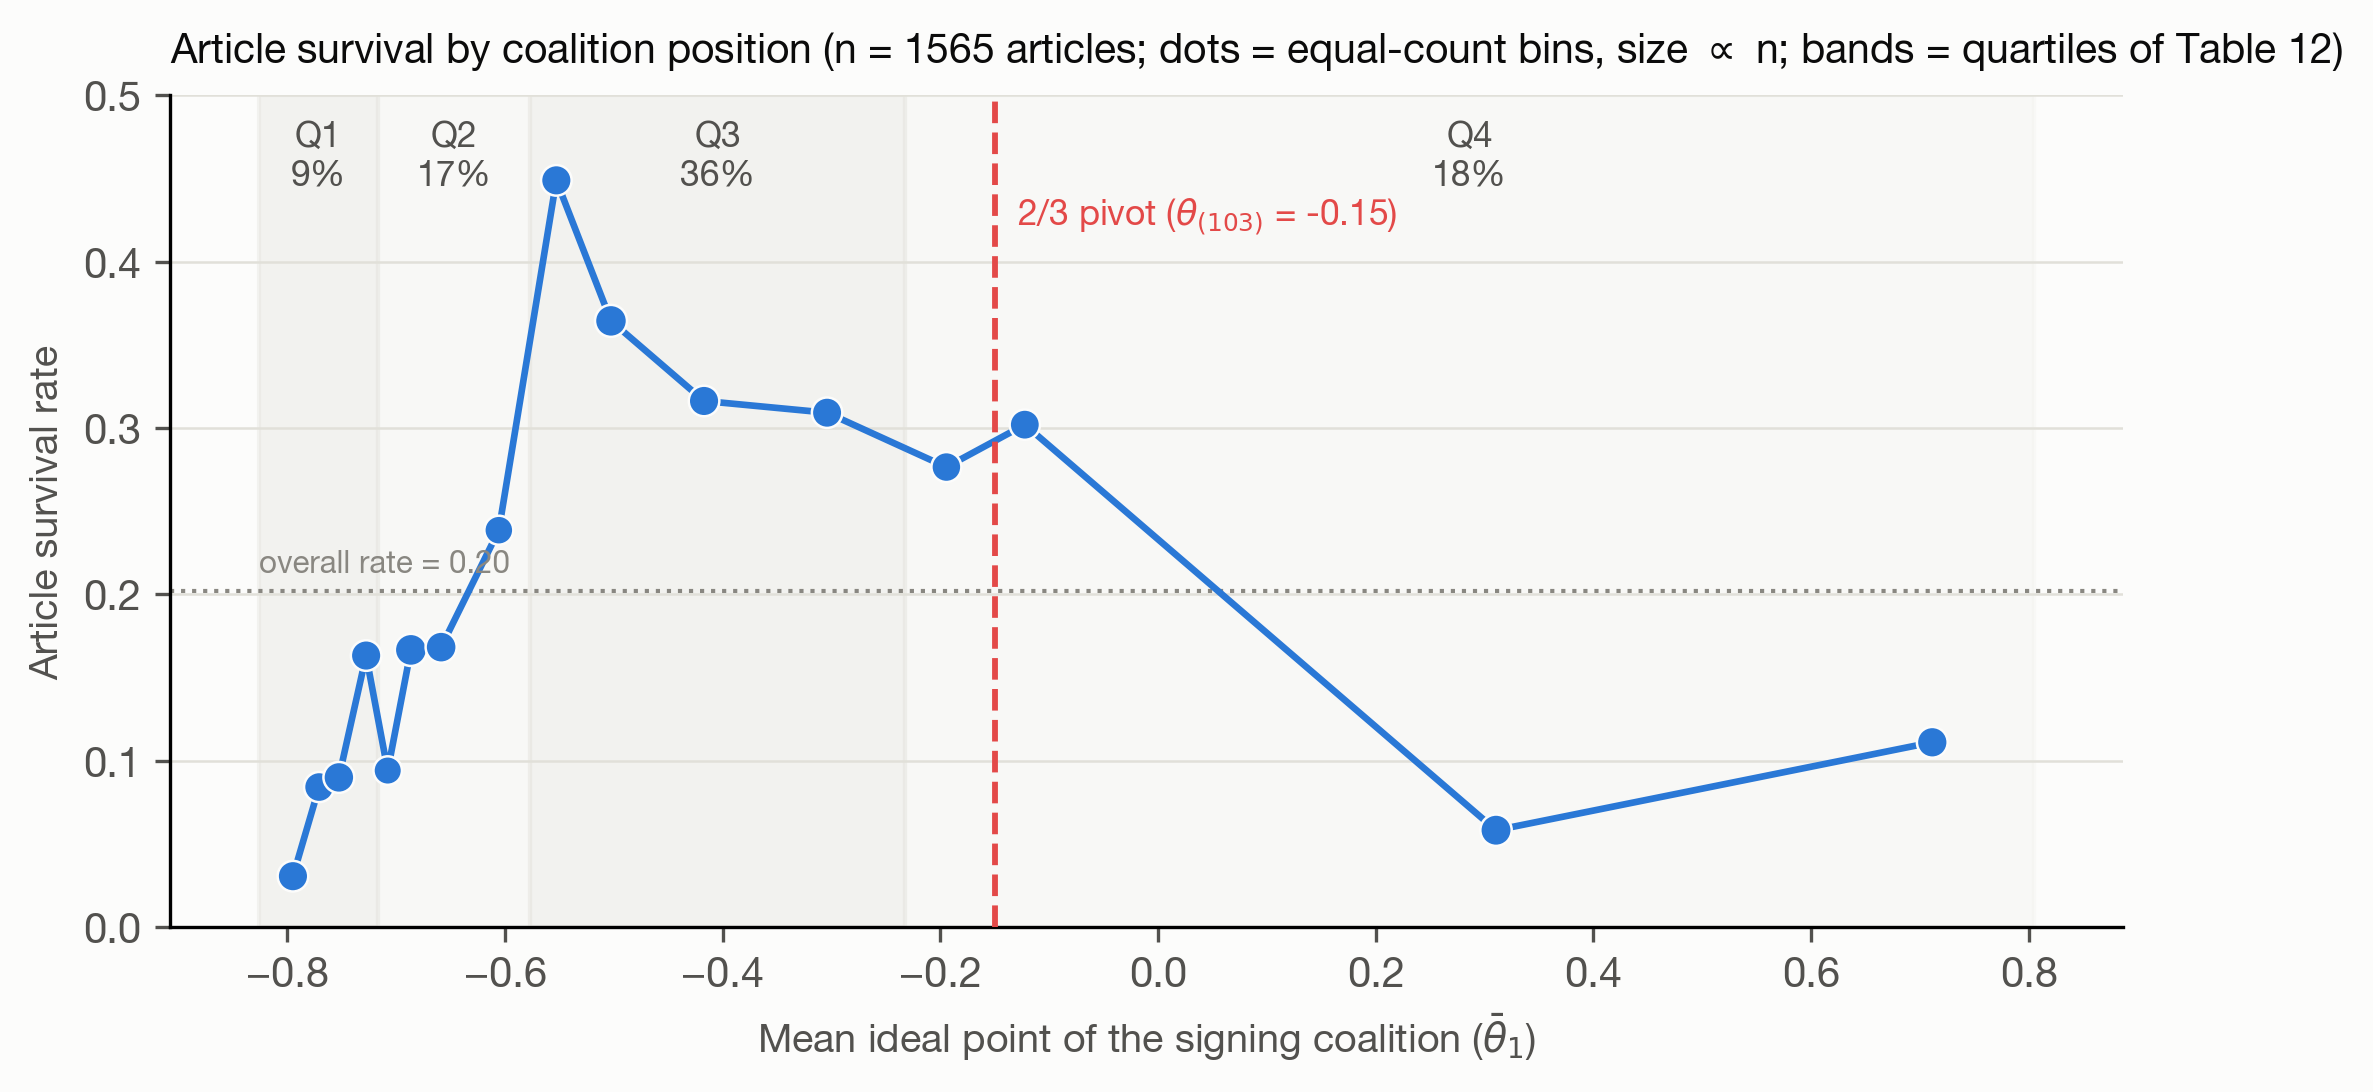
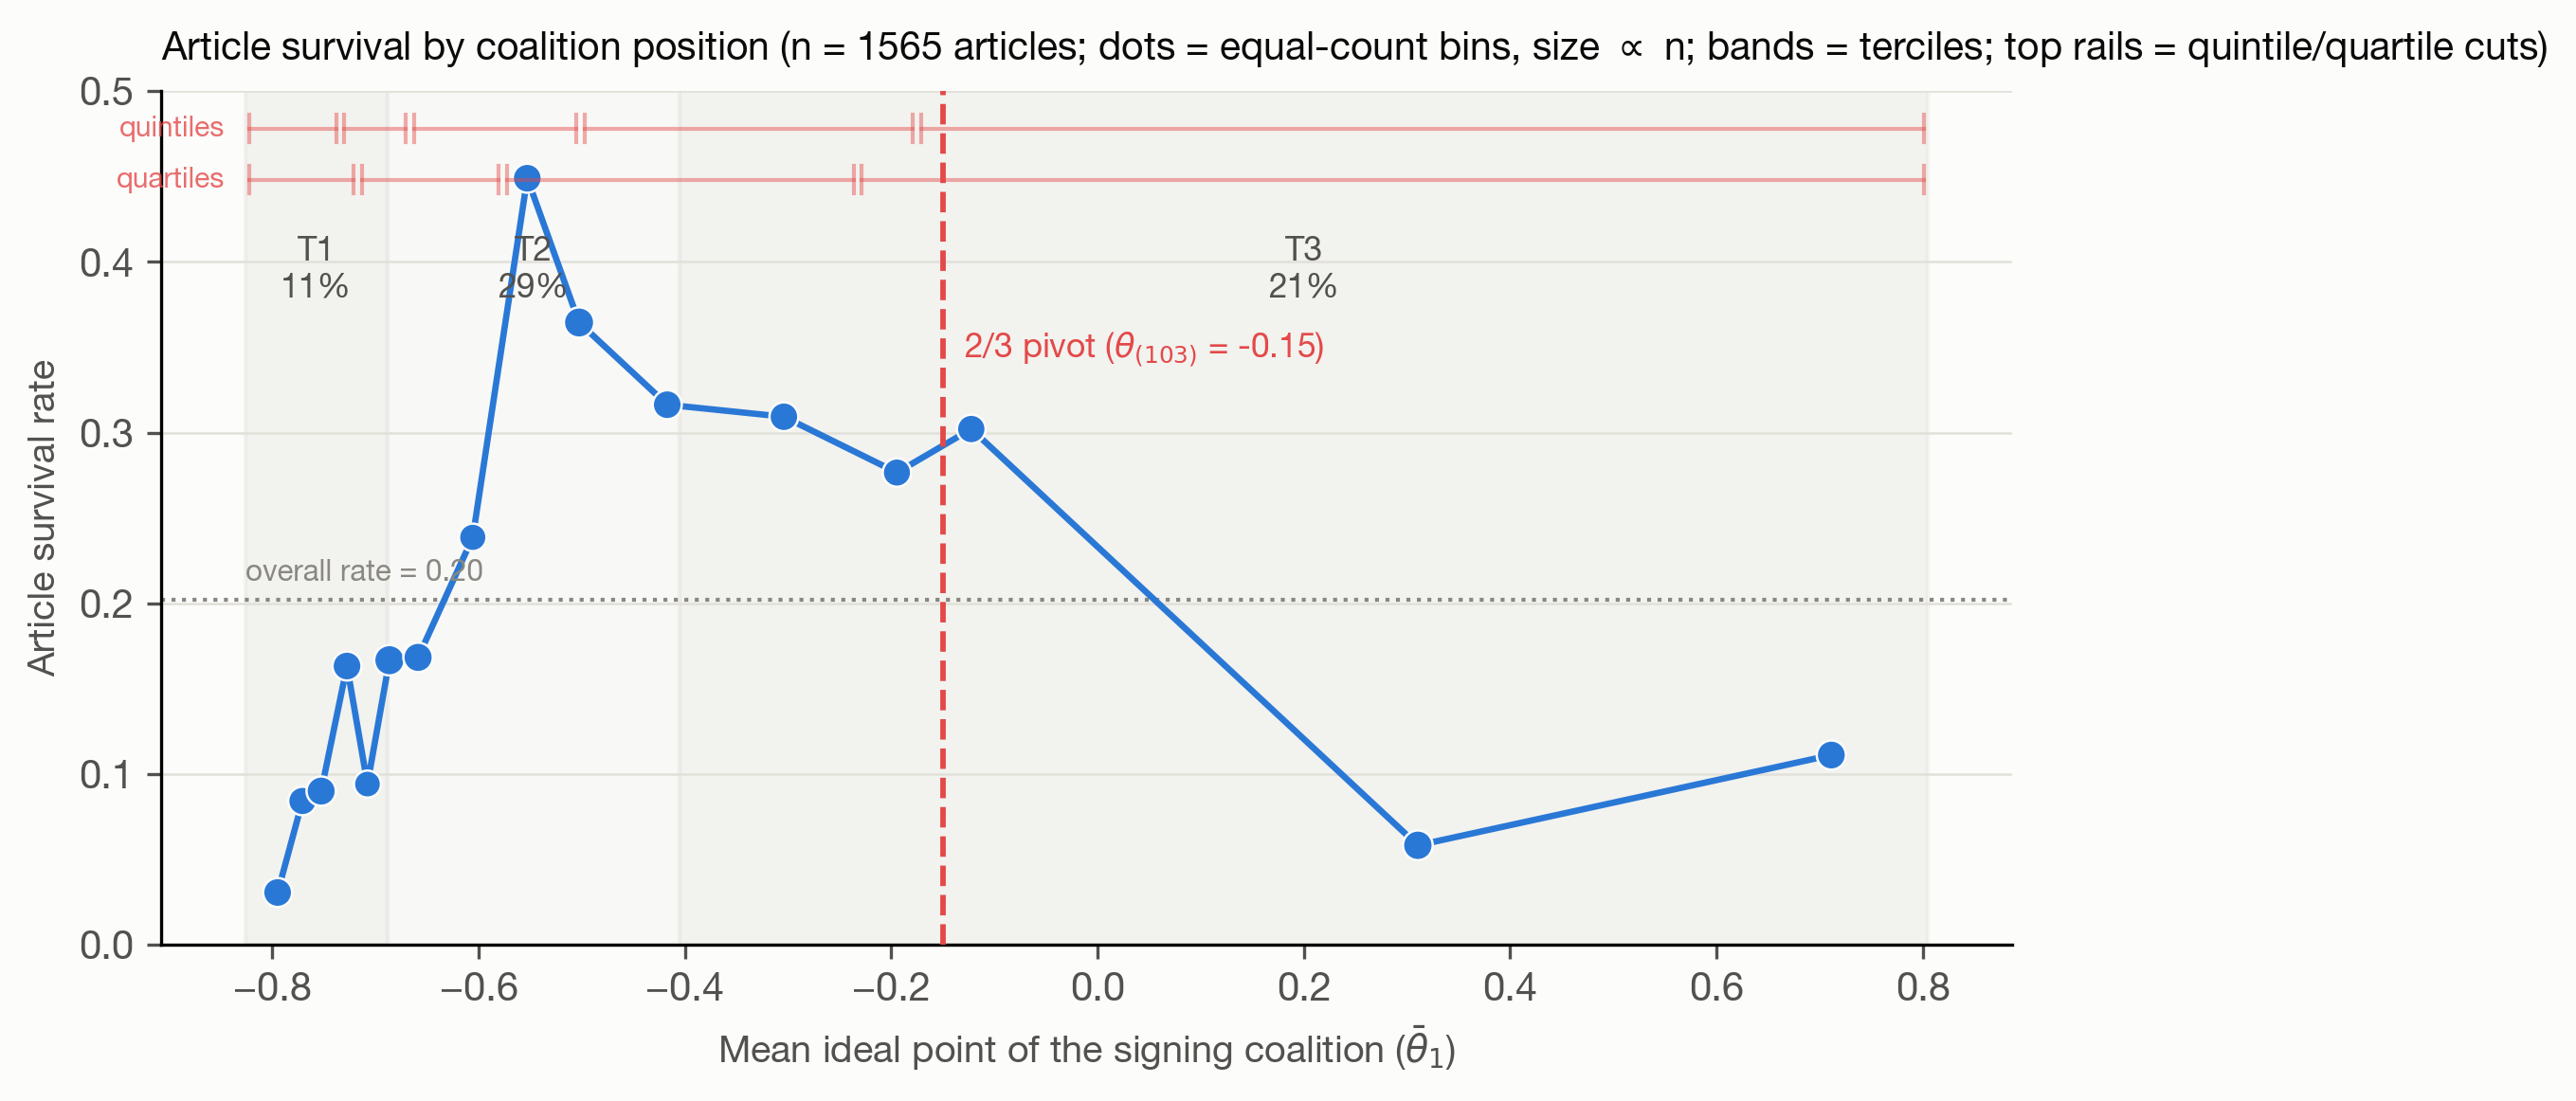
feat: ronda 0-7 — SDM impactos exactos (Tabla 14) + contrafactuales, Figura 13 éxito-por-posición, F12 terciles+barandillas, F11 alpha, nota Fábrega 2022 verificada, limitaciones reescritas

diff --git a/code/47-success-by-ideology-figure.py b/code/47-success-by-ideology-figure.py
@@ -1,0 +1,86 @@
+"""
+47-success-by-ideology-figure.py  (comentario del autor 2026-07-21, punto 2)
+Distribución del éxito (retención léxica media) de cada convencional, ordenada
+por su posición política del primer mes (theta1 W-NOMINATE), coloreada por
+conglomerado. Acompaña la sección 5.2 del reporte.
+
+Output: results/figures/success_by_ideology.{pdf,png}
+"""
+
+import csv
+import os
+import sys
+
+import matplotlib
+matplotlib.use("Agg")
+import matplotlib.pyplot as plt
+import numpy as np
+
+sys.path.insert(0, os.path.dirname(os.path.abspath(__file__)))
+from paths import DATA_PROCESSED, DATA_RAW, RESULTS_FIGURES  # noqa: E402
+
+INK, INK2, MUTED = "#0b0b0b", "#52514e", "#898781"
+GRID, BASE, SURF = "#e1e0d9", "#c3c2b7", "#fcfcfb"
+plt.rcParams.update({"font.family": "sans-serif",
+                     "font.sans-serif": ["Helvetica Neue", "Helvetica", "Arial", "DejaVu Sans"],
+                     "figure.facecolor": SURF, "axes.facecolor": SURF, "savefig.facecolor": SURF,
+                     "text.color": INK, "axes.labelcolor": INK2,
+                     "xtick.color": INK2, "ytick.color": INK2})
+
+CONG_COLOR = {
+    "Vamos por Chile": "#2a78d6",
+    "Lista del Apruebo": "#1baf7a",
+    "Apruebo Dignidad": "#e34948",
+    "Lista del Pueblo": "#a8323e",
+    "Escaños Reservados PPOO": "#4a3aa7",
+    "Independientes No Neutrales": "#eda100",
+    "Otras listas locales": "#898781",
+}
+
+theta = {r["nombre_armonizado"]: float(r["theta1_fm"])
+         for r in csv.DictReader(open(os.path.join(DATA_PROCESSED, "ideal_points_2d_firstmonth.csv"),
+                                      encoding="utf-8"))}
+PIVOT = sorted(theta.values())[102]
+cong = {}
+for r in csv.DictReader(open(os.path.join(DATA_RAW, "electoral_lists.csv"), encoding="utf-8")):
+    c = r["conglomerado"]
+    if c == "REVISAR (lista local sin conglomerado)":
+        c = "Otras listas locales"
+    cong[r["nombre_armonizado"]] = c
+
+pts = []
+for r in csv.DictReader(open(os.path.join(DATA_PROCESSED, "integrated_dataset.csv"), encoding="utf-8")):
+    if r["retention_all"] and r["nombre_armonizado"] in theta:
+        pts.append((theta[r["nombre_armonizado"]], float(r["retention_all"]),
+                    cong.get(r["nombre_armonizado"], "Otras listas locales")))
+
+fig, ax = plt.subplots(figsize=(8.4, 3.7))
+for c, col in CONG_COLOR.items():
+    xs = [p[0] for p in pts if p[2] == c]
+    ys = [p[1] for p in pts if p[2] == c]
+    ax.scatter(xs, ys, s=26, color=col, alpha=0.8, edgecolors=SURF, linewidths=0.5,
+               label=c, zorder=3)
+# tendencia: media movil sobre bins de igual tamaño
+pts.sort()
+xv = np.array([p[0] for p in pts]); yv = np.array([p[1] for p in pts])
+NB = 12
+qs = np.quantile(xv, np.linspace(0, 1, NB + 1))
+cx = [xv[(xv >= qs[b]) & (xv <= qs[b + 1])].mean() for b in range(NB)]
+cy = [yv[(xv >= qs[b]) & (xv <= qs[b + 1])].mean() for b in range(NB)]
+ax.plot(cx, cy, "-", color=INK, lw=1.4, alpha=0.65, zorder=4)
+ax.axvline(PIVOT, color="#e34948", lw=1.3, ls="--", zorder=2)
+ax.text(PIVOT + 0.06, 0.03, f"2/3 pivot ({PIVOT:.2f})", fontsize=8, color="#e34948")
+ax.set_xlabel("First-month ideal point ($\\theta_1$, W-NOMINATE)", fontsize=9.5)
+ax.set_ylabel("Success $y_i$ (mean lexical retention)", fontsize=9.5)
+ax.grid(color=GRID, lw=0.5)
+for side in ("top", "right"):
+    ax.spines[side].set_visible(False)
+ax.legend(fontsize=6.8, frameon=False, ncol=2, loc="upper right", handletextpad=0.2,
+          columnspacing=0.8)
+ax.set_title(f"Individual success by first-month position (n = {len(pts)} delegates; "
+             "line = equal-count bin means)", fontsize=9.8, color=INK, loc="left", pad=8)
+os.makedirs(RESULTS_FIGURES, exist_ok=True)
+for ext in ("pdf", "png"):
+    fig.savefig(os.path.join(RESULTS_FIGURES, f"success_by_ideology.{ext}"), dpi=300,
+                bbox_inches="tight")
+print("figura: success_by_ideology.pdf/.png")

diff --git a/code/46-survival-by-position-figure.py b/code/46-survival-by-position-figure.py
@@ -53,20 +53,33 @@ for b in range(NB):
     rates.append(sv[m].mean())
     sizes.append(m.sum())
 
-q = np.quantile(mt, [0, .25, .5, .75, 1])
-fig, ax = plt.subplots(figsize=(8.4, 3.6))
-# bandas de cuartil con su tasa
-for i, lab in enumerate(["Q1", "Q2", "Q3", "Q4"]):
-    m = (mt >= q[i]) & (mt <= q[i + 1])
-    ax.axvspan(q[i], q[i + 1], color=GRID, alpha=0.35 if i % 2 == 0 else 0.12, zorder=0)
-    ax.text((max(q[i], -0.9) + min(q[i + 1], 0.85)) / 2, 0.485,
+fig, ax = plt.subplots(figsize=(8.4, 3.9))
+# bandas de TERCIL (calzan con la lógica del pívot de 2/3; punto 6, 2026-07-21)
+t = np.quantile(mt, [0, 1/3, 2/3, 1])
+for i, lab in enumerate(["T1", "T2", "T3"]):
+    m = (mt >= t[i]) & (mt <= t[i + 1])
+    ax.axvspan(t[i], t[i + 1], color=GRID, alpha=0.35 if i % 2 == 0 else 0.12, zorder=0)
+    ax.text((max(t[i], -0.9) + min(t[i + 1], 0.85)) / 2, 0.415,
             f"{lab}\n{100 * sv[m].mean():.0f}%", ha="center", va="top",
             fontsize=8.5, color=INK2)
+# barandillas superiores: cortes por QUINTIL (arriba) y por CUARTIL (debajo),
+# lineas rojas claras horizontales con topes pequenos (punto 7, 2026-07-21)
+def bracket_row(y, cuts, label):
+    tick = 0.008
+    for i in range(len(cuts) - 1):
+        x0, x1 = cuts[i] + 0.004, cuts[i + 1] - 0.004
+        ax.plot([x0, x1], [y, y], color=RED, lw=1.0, alpha=0.45, zorder=5)
+        ax.plot([x0, x0], [y - tick, y + tick], color=RED, lw=1.0, alpha=0.45, zorder=5)
+        ax.plot([x1, x1], [y - tick, y + tick], color=RED, lw=1.0, alpha=0.45, zorder=5)
+    ax.text(cuts[0] - 0.02, y, label, ha="right", va="center", fontsize=7.2,
+            color=RED, alpha=0.8)
+bracket_row(0.478, list(np.quantile(mt, np.linspace(0, 1, 6))), "quintiles")
+bracket_row(0.448, list(np.quantile(mt, np.linspace(0, 1, 5))), "quartiles")
 ax.plot(centers, rates, "-", color=BLUE, lw=1.6, zorder=2)
 ax.scatter(centers, rates, s=np.array(sizes) * 0.55, color=BLUE, edgecolors=SURF,
            linewidths=0.6, zorder=3)
 ax.axvline(PIVOT, color=RED, lw=1.4, ls="--", zorder=4)
-ax.text(PIVOT + 0.02, 0.44, f"2/3 pivot ($\\theta_{{(103)}}$ = {PIVOT:.2f})",
+ax.text(PIVOT + 0.02, 0.36, f"2/3 pivot ($\\theta_{{(103)}}$ = {PIVOT:.2f})",
         fontsize=8.5, color=RED, va="top")
 ax.axhline(sv.mean(), color=MUTED, lw=1.0, ls=":", zorder=1)
 ax.text(mt.min(), sv.mean() + 0.008, f"overall rate = {sv.mean():.2f}",
@@ -78,7 +91,7 @@ ax.grid(axis="y", color=GRID, lw=0.6)
 for side in ("top", "right"):
     ax.spines[side].set_visible(False)
 ax.set_title(f"Article survival by coalition position (n = {n} articles; "
-             "dots = equal-count bins, size $\\propto$ n; bands = quartiles of Table 12)",
+             "dots = equal-count bins, size $\\propto$ n; bands = terciles; top rails = quintile/quartile cuts)",
              fontsize=9.8, color=INK, loc="left", pad=8)
 os.makedirs(RESULTS_FIGURES, exist_ok=True)
 for ext in ("pdf", "png"):

diff --git a/code/11-m2-motivation-figures.py b/code/11-m2-motivation-figures.py
@@ -257,7 +257,7 @@ fig, (a1, a2) = plt.subplots(1, 2, figsize=(8.6, 3.4))
 a1.scatter(lev.loc[~lev["extreme"], "net_exposure"], lev.loc[~lev["extreme"], "theta"],
            s=5, alpha=0.12, color="#2a78d6", edgecolors="none", rasterized=True)
 a1.scatter(lev.loc[lev["extreme"], "net_exposure"], lev.loc[lev["extreme"], "theta"],
-           s=9, alpha=0.75, color="#c98a00", edgecolors="none", zorder=3,
+           s=9, alpha=0.35, color="#c98a00", edgecolors="none", zorder=3,
            label="5% farthest from fit")
 a1.plot([lev["net_exposure"].min(), lev["net_exposure"].max()],
         [b0 + b1 * lev["net_exposure"].min(), b0 + b1 * lev["net_exposure"].max()],
@@ -270,7 +270,7 @@ a1.set_ylabel(r"Own position $\theta_{it}$", fontsize=8.5)
 a2.scatter(chg.loc[~chg["extreme"], "dE"], chg.loc[~chg["extreme"], "delta_theta"],
            s=5, alpha=0.12, color="#e34948", edgecolors="none", rasterized=True)
 a2.scatter(chg.loc[chg["extreme"], "dE"], chg.loc[chg["extreme"], "delta_theta"],
-           s=9, alpha=0.75, color="#c98a00", edgecolors="none", zorder=3,
+           s=9, alpha=0.35, color="#c98a00", edgecolors="none", zorder=3,
            label=f"same obs. as (a): r = {r_chg_ext:.2f}")
 a2.legend(fontsize=7.5, frameon=False, loc="upper left")
 a2.set_title(f"(b) Within: change vs. change (r = {r_chg:.2f})",

diff --git a/docs/networked-influence-study.md b/docs/networked-influence-study.md
@@ -37,7 +37,7 @@ Todo el material proviene del registro documental de la Convención, procesado e
     - género; profesión de abogado/a (39% de la Convención); experiencia institucional previa (haber sido parlamentario/a, alcalde/sa, concejal/a, ministro/a u otro cargo público antes de jul-2021);
     - grado académico en escala 0--3 (0 = sin estudios universitarios terminados, 1 = educación superior, 2 = magíster, 3 = doctorado);
     - distrito electoral (28 distritos; para los 17 escaños reservados, su pueblo originario — 10 pueblos);
-    - lista electoral de origen, agrupada en conglomerados (Vamos por Chile 37, Apruebo Dignidad 28, Lista del Apruebo 25, Lista del Pueblo 23, escaños reservados 17, Independientes No Neutrales 3, otras listas locales 21);
+    - lista electoral de origen, agrupada en conglomerados (Vamos por Chile 37, Apruebo Dignidad 28, Lista del Apruebo 25, Lista del Pueblo 23, escaños reservados 17, Independientes No Neutrales 3, otras listas locales 21); la agrupación sigue el pacto electoral de origen y difiere en los bordes de la de Fábrega (2022, *Revista de Ciencia Política* 42(1)), cuya Tabla 1 usa una categoría residual "Otras candidaturas fuera de pacto" (10 escaños, "Izquierda y Centro-Izquierda") sin enumerar su composición en el texto — el material suplementario del artículo codifica 15 convencionales como "O"; nuestro "otras listas locales" (21) es más ancho porque agrupa por lista de registro, no por orientación (el crosswalk fino está anotado como pendiente);
     - comisión temática de pertenencia.
 - Iniciativas: 995 ingresadas a la plataforma oficial de la Convención entre nov-2021 y feb-2022, con la lista de firmantes armonizada al padrón de 154.
     - 947 tienen entre 2 y 16 firmantes-persona y forman el set de análisis; 46 registran más de 16 firmantes — imposible bajo la regla del reglamento — y quedan excluidas mientras se auditan como duplicaciones de documentos transversales entre comisiones; 2 tienen un solo firmante recuperable.
@@ -329,7 +329,7 @@ Sobre esa red estimamos un ERGM (exponential random graph model), que conviene e
 
 - *edges*: la propensión base a firmar (el intercepto del modelo);
 - *miembro*: ¿los miembros de la comisión firman las iniciativas de su comisión más que el resto?
-- *misma lista, mismo quintil de $\theta_1$, ambos abogados, ambos con experiencia, mismo género*: cada uno cuenta los pares de co-firmantes de una misma iniciativa que comparten ese atributo — homofilia de co-firma medida sin proyección.
+- *misma lista, mismo quintil de $\theta_1$, mismo distrito, ambos abogados, ambos con experiencia, mismo género, mismo nivel educativo, mismo quintil de edad*: cada uno cuenta los pares de co-firmantes de una misma iniciativa que comparten ese atributo — homofilia de co-firma medida sin proyección. (Una diferencia de forma con el logit condicional y el RHEM: allá las variables continuas entran como distancias — $|\theta_i - \bar\theta|$, dispersión de edad —; el vocabulario estándar del ERGM bipartito solo trae homofilia por *coincidencia de categoría*, así que ideología, educación y edad entran discretizadas en quintiles/niveles. La paridad entre los tres modelos es de variables, no de forma funcional.)
 
 ¿Por qué siete modelos y no uno? Por dos razones, una sustantiva y una práctica. La sustantiva: la comisión es el mayor confundidor de composición (la sección 3.4 mostró que los temas arman las coaliciones), y estimar dentro de cada comisión es condicionar por ese confundidor por diseño — en un modelo único de las 947 iniciativas, con un solo intercepto, las diferencias de composición *entre* comisiones contaminan la homofilia *dentro* de cada una (lo verificamos: el modelo agregado invierte los signos de la homofilia, la paradoja de Simpson de manual). La práctica: en estas redes la estimación MCMC completa toma horas por comisión; la tabla reporta máxima pseudo-verosimilitud (MPLE), que entrega los mismos puntos en segundos pero errores estándar que subestiman la incertidumbre — las estrellas se leen como indicativas, y el run MCMC completo (en curso, nocturno) entrega la inferencia definitiva. Los siete modelos ($^{*}$ $p<.05$, $^{**}$ $p<.01$, $^{***}$ $p<.001$; errores estándar completos en `M1_bipartite_commissions.csv`):
 
@@ -497,7 +497,7 @@ La respuesta es sí — y eso no debilita el resultado sino que revela el mecani
 
 La Figura 12 muestra esta geometría directamente, sin cortar en tramos: la tasa de supervivencia contra la posición media de la coalición, en bins de igual tamaño. El máximo (cerca del 45%) no está sobre el pívot sino algo a su izquierda ($\bar\theta_1 \approx -0.55$): subida empinada desde la izquierda dura hasta ese punto, descenso suave al acercarse al pívot y caída al cruzarlo. La interpretación encaja con la aritmética de la sala: en una Convención mayoritariamente de izquierda, la coalición óptima es la que está en el centro de masa de esa mayoría — lo bastante central para estirarse hasta el voto 103, sin despegarse del bloque que redacta. La Tabla 12 es esta curva leída por cuartiles.
 
-![Figura 12. Tasa de supervivencia de los artículos según la posición media de su coalición firmante (bins de igual tamaño; el tamaño del punto es el n del bin; bandas = cuartiles de la Tabla 12; línea roja = pívot de 2/3).](../results/figures/survival_by_position.pdf){width=100%}
+![Figura 12. Tasa de supervivencia de los artículos según la posición media de su coalición firmante (bins de igual tamaño; el tamaño del punto es el n del bin). Las bandas sombreadas son terciles — el corte que dialoga con la regla de 2/3 — con su tasa de supervivencia; las barandillas rojas superiores marcan los cortes por quintiles (fila de arriba) y por cuartiles (fila de abajo); la línea roja discontinua es el pívot.](../results/figures/survival_by_position.pdf){width=100%}
 
 ## 5.2 La vista agregada: el éxito se comparte
 
@@ -531,9 +531,37 @@ donde $W$ es la red de co-patrocinio normalizada por filas (cada fila suma 1: $W
 
 Tres lecturas. Primera, el control de actividad responde la pregunta que lo motivó: firmar muchas iniciativas no hace más exitoso a nadie (coeficiente nulo) y las demás conclusiones no cambian al incluirlo. Segunda, el patrón general del estudio se repite: los atributos propios no predicen casi nada — la única excepción es la experiencia previa propia, positiva y chica ($+0.019$) —; los del vecindario pesan más, incluida la distancia al pívot, que solo importa en su versión "de la compañía" ($-0.27$) y no en la propia ($p = 0.95$). Tercera, $\rho = 0.89$: el éxito está acoplado entre co-firmantes incluso tras todos los controles. Parte de ese acoplamiento es composición — co-firmantes comparten artículos, y por tanto las propiedades de coalición de 5.1 —, por lo que leemos 5.1 como el mecanismo y esta sección como su sombra agregada (la dependencia sobrevive además con red binaria, con otra definición de lazo, con similitud semántica en vez de léxica, y con la retención condicional: $\rho$ entre 0.63 y 0.95 en todas las variantes). Nota sobre el lag de abogado ($+0.19$): a nivel de convencional, estar rodeado de abogados acompaña al éxito, pero el modelo de mecanismo (5.1) muestra que la proporción de abogados de la coalición no salva artículos — preferimos la lectura del nivel artículo, que es el diseño limpio.
 
-La Figura 13 muestra la materia prima de este éxito en el tiempo: la similitud de los artículos de cada comisión con el borrador final, onda a onda — la convergencia gradual (y desigual entre comisiones) cuyo punto de llegada es el numerador del éxito $y_i$.
+¿Qué pasa si tomamos el modelo en serio y calculamos sus efectos completos? En un modelo espacial, el coeficiente crudo de una variable no es su efecto total: si mi éxito sube, el de mis vecinos sube ($\rho$), lo que vuelve a subir el mío — un eco infinito. La descomposición estándar (LeSage-Pace) separa el efecto *directo* (sobre mí, incluido mi propio eco), el *indirecto* (el derrame sobre los demás) y el *total*. Con solo 154 nodos podemos calcularla de forma exacta — el multiplicador $(I - \rho W)^{-1}$ completo, sin las aproximaciones que se vuelven inestables cuando $\rho$ se acerca a 1:
 
-![Figura 13. Retención textual por comisión a lo largo de las ondas de indicaciones: similitud media de los artículos con el borrador final.](../results/figures/retention_dynamics_all_commissions.pdf){width=100%}
+**Tabla 14 — SDM: descomposición exacta de impactos (modelo de la Tabla 13) y comparación con OLS.**
+
+| Variable | $\beta$ OLS | Directo | Indirecto | Total |
+|:---|:-:|:-:|:-:|:-:|
+| ***— Actividad y posición en la red*** | | | | |
+| N° de iniciativas firmadas | $-0.0004$ | $-0.0001$ | $+0.0009$ | $+0.0007$ |
+| Grado (red) | $+0.0011$ | $+0.0010$ | $+0.051$ | $+0.052$ |
+| Betweenness | $-0.0004$ | $-0.0002$ | $-0.018$ | $-0.018$ |
+| ***— Posición ideológica*** | | | | |
+| Voto revelado medio ($\theta$) | $+0.003$ | $+0.015$ | $+0.57$ | $+0.58$ |
+| Desv. est. de $\theta$ | $+0.025$ | $-0.017$ | $+0.09$ | $+0.07$ |
+| Distancia propia al pívot | $-0.093$ | $-0.030$ | $-2.41$ | $-2.44$ |
+| Heterofilia del ego | $-0.011$ | $-0.053$ | $-2.50$ | $-2.56$ |
+| ***— Credenciales y perfil*** | | | | |
+| Abogado | $+0.010$ | $+0.032$ | $+1.83$ | $+1.86$ |
+| Experiencia previa | $+0.013$ | $+0.038$ | $+1.68$ | $+1.72$ |
+| Mujer | $+0.001$ | $+0.024$ | $+1.90$ | $+1.92$ |
+| Edad | $-0.0004$ | $-0.0005$ | $-0.031$ | $-0.032$ |
+| Grado académico | $+0.002$ | $-0.020$ | $-1.42$ | $-1.44$ |
+
+La tabla enseña más por lo que revela del modelo que por sus números sueltos, y hay que leerla con tres claves. Primera: los efectos *directos* son chicos y del orden de los OLS — sobre uno mismo, nada mueve mucho. Segunda: los *totales* son enormes porque con $\rho = 0.89$ el multiplicador de equilibrio vale $1/(1-\rho) \approx 9$ — el modelo afirma, tomado literalmente, que convertir a alguien en abogado sumaría $+1.86$ de retención repartida por toda la sala, cuando el éxito individual promedio es $0.09$. Eso no es un efecto creíble: es el diagnóstico cuantitativo de por qué el acoplamiento $\rho$ debe leerse como asociación (composición más selección) y no como difusión causal — la advertencia que este mismo reporte hace desde 5.1. (La inferencia sobre los totales tampoco es utilizable en este régimen: en el Monte Carlo con la covarianza ML, los sorteos con $\rho \to 1$ disparan el multiplicador y los errores estándar explotan; por eso la tabla no trae $p$-values de totales, y la columna de "% de reducción vs OLS" que sugiere la comparación estándar pierde sentido — los porcentajes salen en decenas de miles.) Tercera clave, los dos contrafactuales que sí son tangibles: mover a un convencional de un vecindario de bajo éxito (percentil 10 de $Wy$) a uno de alto éxito (percentil 90) asocia $+0.078$ de retención — 1.3 desviaciones estándar del éxito, casi duplicar la media — y mover a *una sola* persona del P10 al P90 de una covariable produce efectos propios minúsculos (abogado: $+0.03$; distancia al pívot: $-0.03$) pero derrames agregados gigantes según el modelo ($+1.8$ y $-2.0$ sumados sobre la sala). El contraste entre lo propio (chico) y lo derramado (enorme) es la firma aritmética de $\rho \approx 0.9$.
+
+La Figura 13 baja todo esto a la evidencia visual más simple: el éxito de cada convencional contra su posición del primer mes. El perfil replica a nivel individual lo que la Figura 12 mostró a nivel de coalición — máximo justo a la izquierda del pívot (y los individuos más exitosos son de listas locales, INN y Lista del Apruebo parados ahí), niveles moderados en la izquierda, y el piso plano en la derecha.
+
+![Figura 13. Éxito individual (retención léxica media) según el punto ideal del primer mes, coloreado por conglomerado; línea = medias por bins de igual tamaño; vertical = pívot de 2/3.](../results/figures/success_by_ideology.pdf){width=100%}
+
+La Figura 14 muestra la materia prima de este éxito en el tiempo: la similitud de los artículos de cada comisión con el borrador final, onda a onda — la convergencia gradual (y desigual entre comisiones) cuyo punto de llegada es el numerador del éxito $y_i$.
+
+![Figura 14. Retención textual por comisión a lo largo de las ondas de indicaciones: similitud media de los artículos con el borrador final.](../results/figures/retention_dynamics_all_commissions.pdf){width=100%}
 
 # 6. Síntesis
 
@@ -544,7 +572,8 @@ En una asamblea de extraños, la colaboración se organizó con lo que la gente 
 1. Los puntos ideales se estiman de votos: la distinción entre ideología y disciplina estable (sección 3.2) es parcialmente circular. El error de medición de $\theta$ ya está cuantificado y propagado a M2 (bootstrap paramétrico, sección 4.1: el nulo sobrevive); su propagación a los demás modelos que usan $\theta$ (formación, supervivencia) queda pendiente.
 2. La familiaridad del modelo de eventos mezcla dependencia del estado con afinidades estables no observadas; la ventana es corta (tres meses), un 36% de los eventos cae el día del plazo (donde no existe orden intradiario) y 123 fechas están imputadas desde las notas del registro.
 3. 46 iniciativas con más de 16 firmantes están excluidas mientras se auditan como duplicaciones transversales (quedan además 24 grupos de texto casi duplicado sin resolver en la fuente); 120 iniciativas utilizables no tienen comisión asignada en la plataforma (entran a la red agregada y al modelo de eventos, no a los análisis por comisión); 21 convencionales de listas locales esperan un crosswalk fino de conglomerado.
-4. En el modelo de supervivencia, el grado medio de red de la coalición se excluye por colinealidad con la constraint media (VIF $\approx$ 10 entre ambas); con esa exclusión todos los VIF quedan bajo 4.
-5. Con $\rho$ cercano a 1, la descomposición de impactos del modelo espacial es numéricamente inestable; se reportan coeficientes y $\rho$.
+4. El ERGM bipartito por comisión (Tabla 8) reporta por ahora puntos MPLE: los errores estándar definitivos requieren el MCMC completo (en curso; horas por comisión en las redes reales). Los términos *estructurales* (heterogeneidad de grado, clustering más allá de atributos) siguen fuera de todos los modelos de formación: el más simple (`gwb1degree`) cuesta ~15 minutos por iteración MCMC incluso en la comisión más chica, y los intentos con términos `gw` más ricos degeneraron.
+5. No existe un "ERGM bipartito total" válido con intercepto único: al juntar las 947 iniciativas en una sola red, la composición entre comisiones invierte los signos de la homofilia (paradoja de Simpson, verificada numéricamente); el modelo general correcto es la suite por comisión (o su versión conjunta con interceptos por red), que es lo que se reporta.
+6. Con $\rho \approx 0.9$, la descomposición de impactos del modelo espacial se calcula exacta (Tabla 14) pero sus totales son efectos de equilibrio amplificados $\sim 9\times$ y su inferencia Monte Carlo no es utilizable (sorteos con $\rho \to 1$); se leen como diagnóstico del acoplamiento, no como tamaños de efecto.
 
 En curso: robustez del modelo de eventos (excluir el bloque del plazo; imputar fechas faltantes); la variante dirigida (quién recluta a quién, con el autor principal de cada iniciativa); la extensión del modelo de eventos y de supervivencia a las indicaciones (incorporar a quienes modificaron cada artículo, no solo a quienes lo iniciaron); y el vínculo votación-artículo para clasificar artículos por su coalición de votantes.

diff --git a/docs/revision-critica.md b/docs/revision-critica.md
@@ -256,9 +256,9 @@ El corte por bloques de la Tabla 3 (clogit) no se traslada directamente al RHEM:
 
 Plan de implementación completo (expresiones, inventario de datos, advertencias de identificación, orden de ejecución) en `docs/playground.pdf` §12. Resumen: etapa 0 = logit de llegada a informe sobre las 947 iniciativas (previa: crosswalk plataforma-TRACK auditado, objetivo >90% de match inequívoco); etapa 1 = panel artículo x onda con equipo de custodia (génesis $\cup$ enmendadores hasta $t$) para C1/C3/C4/C6. Decisión del autor 2026-07-21: no se aborda ahora.
 
-## IV-P.4 — SDM: los upgrades del workshop del autor **[PENDIENTE DE DECISIÓN]**
+## IV-P.4 — SDM: los upgrades del workshop del autor **[1-3 EJECUTADOS 2026-07-21; 4-6 pendientes]**
 
-Del análisis del workshop `3-network-from-surveys.qmd` (2026-07-20) salieron seis recomendaciones, ninguna implementada aún: (1) descomposición de impactos Directo/Indirecto/Total — con N = 154 se puede el multiplicador $(I-\rho W)^{-1}$ exacto, esquivando la inestabilidad que hizo abandonar `impacts()`; (2) tabla "beta OLS vs impacto total" con % de reducción; (3) contrafactual de magnitud $\rho\,(Wy_{p90}-Wy_{p10})$; (4) párrafo-caveat DellaPosta para $\rho \approx 0.9$ con W endógena; (5) placebo-W vía ERGM solo-homofilia (costoso); (6) robustez con W top-K con pesos. Sugerencia vigente: 1-3 como próximo upgrade (baratos), 4 un párrafo, 5-6 backlog.
+Del análisis del workshop `3-network-from-surveys.qmd` (2026-07-20) salieron seis recomendaciones, ninguna implementada aún: (1) descomposición de impactos Directo/Indirecto/Total — con N = 154 se puede el multiplicador $(I-\rho W)^{-1}$ exacto, esquivando la inestabilidad que hizo abandonar `impacts()`; (2) tabla "beta OLS vs impacto total" con % de reducción; (3) contrafactual de magnitud $\rho\,(Wy_{p90}-Wy_{p10})$; (4) párrafo-caveat DellaPosta para $\rho \approx 0.9$ con W endógena; (5) placebo-W vía ERGM solo-homofilia (costoso); (6) robustez con W top-K con pesos. ACTUALIZACIÓN 2026-07-21: los puntos 1-3 fueron aprobados y ejecutados (`code/48`; Tabla 14 y sección 5.2 del reporte). Veredicto: los impactos exactos revelan que con rho = 0.89 el multiplicador de equilibrio (~9x) hace increíbles los totales literales y la inferencia MC explota (sorteos con rho -> 1) — la descomposición sirve como diagnóstico del acoplamiento, no como tamaños de efecto; el contrafactual de clima (rho*(Wy_p90-Wy_p10) = +0.078 = 1.3 sd del éxito) y el de covariable P10->P90 quedaron en el reporte. Se agregó además la figura de éxito individual por posición del primer mes (`code/47`, Figura 13). Pendientes: 4 (párrafo DellaPosta formal — una versión breve ya quedó en 5.2), 5 (placebo-W vía ERGM) y 6 (W top-K).
 
 ## IV-P.5 — Propagación del error de medición a los demás modelos **[M2 LISTO; RESTO PENDIENTE]**
 